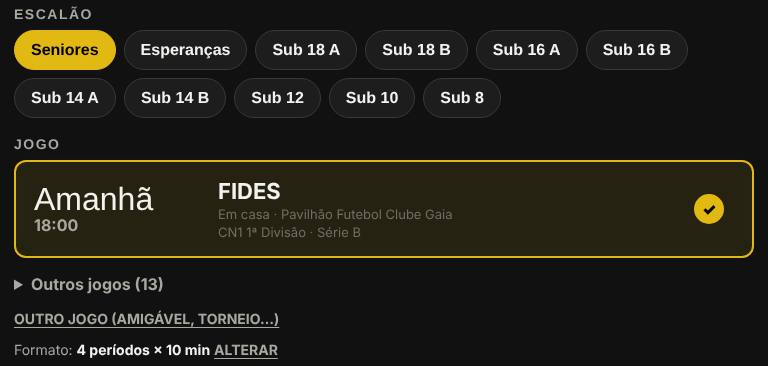
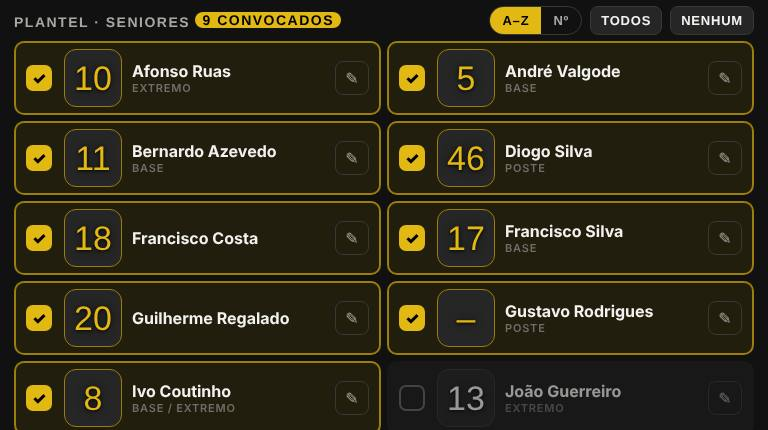
Ajuda: passo do envio das estatísticas e fluxo Plantel → Novo jogo
Claude-Session: https://claude.ai/code/session_011MJLTkQqLgfMWcZVacVG5X

diff --git a/index.html b/index.html
@@ -806,6 +806,7 @@ body.fit .b2 .sc .s{font-size:60px}body.fit .b2 .clock .t{font-size:52px!importa
 :root[data-theme=light] .hic{background:#f3f0e0;color:var(--gold-ink)}:root[data-theme=light] .hgo,:root[data-theme=light] .hopen .htx small{color:var(--gold-ink)}:root[data-theme=light] .hopen{background:#fff6cf}
 
 /* ===== v20: avisos de envio ===== */
+.hb-ico{display:grid;place-items:center;font-size:44px;color:var(--gold);background:var(--panel2);border-radius:10px;min-height:90px}
 #toast.tk-ok{border-color:var(--ok)}#toast.tk-warn,#toast.tk-ok{max-width:min(560px,92vw);width:max-content;border-radius:14px;text-align:center;line-height:1.35}#toast.tk-warn{border-color:var(--gold)}#toast.tk-ok{color:#fff}#toast.tk-busy{border-color:var(--line)}
 #toast.tk-busy::before{content:"";display:inline-block;width:12px;height:12px;margin-right:10px;border:2px solid currentColor;border-right-color:transparent;border-radius:50%;vertical-align:-1px;animation:tkspin .8s linear infinite}
 @keyframes tkspin{to{transform:rotate(360deg)}}@media (prefers-reduced-motion:reduce){#toast.tk-busy::before{animation:none}}
@@ -819,7 +820,7 @@ body.fit .b2 .sc .s{font-size:60px}body.fit .b2 .clock .t{font-size:52px!importa
 <script src="xlsx.full.min.js"></script>
 <script>
[1 lines of base64/hex data omitted]
-const VER="17/10 15:32";
+const VER="17/10 15:34";
 let DATA=null;
 const TEAMS=[["Seniores Masc","Seniores"],["Esperanças","Esperanças"],["Masters","Masters"],["Sub-18 Masc A","Sub 18 A"],["Sub-18 Masc B","Sub 18 B"],["Sub-16 Masc A","Sub 16 A"],["Sub-16 Masc B","Sub 16 B"],["Sub-14 Masc A","Sub 14 A"],["Sub-14 Masc B","Sub 14 B"],["Sub-12","Sub 12"],["Sub-10","Sub 10"],["Sub-8","Sub 8"]];
 const TN=Object.fromEntries(TEAMS);
@@ -1140,17 +1141,18 @@ function goLogin(){const go=async()=>{if(G){if(G.running)G.running=false;store()
   if(G&&G.status!=="fim")confirmBox("Gravar o jogo e ir para o início de sessão? Continuas o jogo em Jogos depois de entrares.",go);
   else go()}
 /* guia rápido */
-const HELP=[["Escolhe o jogo","Em Novo jogo, o escalão e o jogo de hoje (ou o próximo) já vêm escolhidos. Se for outro, abre “Outros jogos” ou “Outro jogo”.","1"],
- ["Convoca os atletas","Toca nos atletas que vão a jogo. Confirma os números e carrega em Começar jogo.","2"],
+const HELP=[["Convoca no Plantel","No separador Plantel marca quem vai a jogo e carrega em “Convocar → escolher jogo”. O ✎ corrige nome e número; “+ Adicionar jogador” junta quem não está no plantel. A convocatória fica guardada para o jogo seguinte.","1"],
+ ["Escolhe o jogo","Em Novo jogo, o jogo de hoje (ou o próximo) já vem escolhido e os convocados também. Se for outro, abre “Escolher jogo de outra data…” ou “Outro jogo”. Carrega em Começar jogo.","2"],
  ["Escolhe o cinco inicial","Toca em 5 atletas do banco (ou arrasta-os para Em campo). O relógio só arranca com cinco em campo.","3"],
  ["Regista as jogadas","Toca no atleta e depois na ação dos lados do campo. Para um lançamento, toca no sítio do campo e escolhe Convertido ou Falhado. Depois de um cesto aparece “Assistência?” com os números dos colegas. Faltas: Pessoal e Recebida em destaque; Disruptiva, Flagrante e Técnica por baixo. Técnicas ao treinador ou ao banco: botão “Técnica banco”. Errado? ↶ Anular, em baixo.","4"],
  ["Adversário","Usa +1, +2, +3 e Falta no marcador, ou escolhe o adversário por cima do campo para marcar lançamentos e ações dele (o campo fica azul).","5"],
  ["Substitui a arrastar","Arrasta um atleta do banco para cima de quem sai. Se alguém for excluído, o relógio pára e a app pede logo quem entra.","6"],
  ["Relógio e períodos","▶ Iniciar e Parar ao lado do tempo. Toca no tempo para o corrigir. Período › mostra todos os períodos, com o seguinte em destaque.","7"],
- ["Termina e grava","Terminar jogo → Gravar abre a revisão: confirma os números com a ficha oficial, corrige o que for preciso e carrega em Gravar jogo. Jogadas erradas editam-se ou apagam-se no separador Jogadas. Para parar e continuar mais tarde, Gravar e sair. Os números ficam em Jogos e em Época · acumulado, com Excel.","8"]];
+ ["Termina e grava","Terminar jogo → Gravar abre a revisão: confirma os números com a ficha oficial, corrige o que for preciso e carrega em Gravar jogo. Jogadas erradas editam-se ou apagam-se no separador Jogadas. Para parar e continuar mais tarde, Gravar e sair: o jogo fica no Início com “Continuar”. Os números ficam em Estatísticas, com Excel.","8"],
+ ["Envio das estatísticas","Ao gravar, se houver internet aparece “A enviar estatísticas…” e depois “✓ Estatísticas enviadas”: ficam disponíveis para toda a equipa técnica do escalão. Sem internet, o jogo fica gravado no tablet e aparece “⚠ 1 jogo por enviar” no topo; basta abrir a app com Wi-Fi ou dados e segue sozinho (“✓ jogo enviado”). A app funciona sem internet no pavilhão, desde que tenha sido aberta antes com ligação. Se aparecer “⚠ Só neste tablet”, pede acesso ao administrador.",""]];
 function helpBox(){const m=document.createElement("div");m.className="modal help";
   m.innerHTML=`<div class="card hb"><div class="hb-h"><h3>Guia rápido</h3><button class="btn sm" id="hb-x">Fechar</button></div>
-   <ol class="hb-l">${HELP.map(([t,d,i])=>`<li><img src="ajuda/${i}.jpg" alt="" loading="lazy" onerror="this.remove()"><div><b>${esc(t)}</b><p>${esc(d)}</p></div></li>`).join("")}</ol>
+   <ol class="hb-l">${HELP.map(([t,d,i])=>`<li>${i?`<img src="ajuda/${i}.jpg" alt="" loading="lazy" onerror="this.remove()">`:`<span class="hb-ico">☁</span>`}<div><b>${esc(t)}</b><p>${esc(d)}</p></div></li>`).join("")}</ol>
    ${installHint()?`<div class="hb-i"><b>Instalar no tablet</b><p>${installHint()}</p></div>`:""}</div>`;
   document.body.appendChild(m);m.querySelector("#hb-x").onclick=()=>m.remove();m.onclick=e=>{if(e.target===m)m.remove()}}
 /* instalar como app */

diff --git a/fonte/stats_src.html b/fonte/stats_src.html
@@ -805,6 +805,7 @@ body.fit .b2 .sc .s{font-size:60px}body.fit .b2 .clock .t{font-size:52px!importa
 :root[data-theme=light] .hic{background:#f3f0e0;color:var(--gold-ink)}:root[data-theme=light] .hgo,:root[data-theme=light] .hopen .htx small{color:var(--gold-ink)}:root[data-theme=light] .hopen{background:#fff6cf}
 
 /* ===== v20: avisos de envio ===== */
+.hb-ico{display:grid;place-items:center;font-size:44px;color:var(--gold);background:var(--panel2);border-radius:10px;min-height:90px}
 #toast.tk-ok{border-color:var(--ok)}#toast.tk-warn,#toast.tk-ok{max-width:min(560px,92vw);width:max-content;border-radius:14px;text-align:center;line-height:1.35}#toast.tk-warn{border-color:var(--gold)}#toast.tk-ok{color:#fff}#toast.tk-busy{border-color:var(--line)}
 #toast.tk-busy::before{content:"";display:inline-block;width:12px;height:12px;margin-right:10px;border:2px solid currentColor;border-right-color:transparent;border-radius:50%;vertical-align:-1px;animation:tkspin .8s linear infinite}
 @keyframes tkspin{to{transform:rotate(360deg)}}@media (prefers-reduced-motion:reduce){#toast.tk-busy::before{animation:none}}
@@ -1139,17 +1140,18 @@ function goLogin(){const go=async()=>{if(G){if(G.running)G.running=false;store()
   if(G&&G.status!=="fim")confirmBox("Gravar o jogo e ir para o início de sessão? Continuas o jogo em Jogos depois de entrares.",go);
   else go()}
 /* guia rápido */
-const HELP=[["Escolhe o jogo","Em Novo jogo, o escalão e o jogo de hoje (ou o próximo) já vêm escolhidos. Se for outro, abre “Outros jogos” ou “Outro jogo”.","1"],
- ["Convoca os atletas","Toca nos atletas que vão a jogo. Confirma os números e carrega em Começar jogo.","2"],
+const HELP=[["Convoca no Plantel","No separador Plantel marca quem vai a jogo e carrega em “Convocar → escolher jogo”. O ✎ corrige nome e número; “+ Adicionar jogador” junta quem não está no plantel. A convocatória fica guardada para o jogo seguinte.","1"],
+ ["Escolhe o jogo","Em Novo jogo, o jogo de hoje (ou o próximo) já vem escolhido e os convocados também. Se for outro, abre “Escolher jogo de outra data…” ou “Outro jogo”. Carrega em Começar jogo.","2"],
  ["Escolhe o cinco inicial","Toca em 5 atletas do banco (ou arrasta-os para Em campo). O relógio só arranca com cinco em campo.","3"],
  ["Regista as jogadas","Toca no atleta e depois na ação dos lados do campo. Para um lançamento, toca no sítio do campo e escolhe Convertido ou Falhado. Depois de um cesto aparece “Assistência?” com os números dos colegas. Faltas: Pessoal e Recebida em destaque; Disruptiva, Flagrante e Técnica por baixo. Técnicas ao treinador ou ao banco: botão “Técnica banco”. Errado? ↶ Anular, em baixo.","4"],
  ["Adversário","Usa +1, +2, +3 e Falta no marcador, ou escolhe o adversário por cima do campo para marcar lançamentos e ações dele (o campo fica azul).","5"],
  ["Substitui a arrastar","Arrasta um atleta do banco para cima de quem sai. Se alguém for excluído, o relógio pára e a app pede logo quem entra.","6"],
  ["Relógio e períodos","▶ Iniciar e Parar ao lado do tempo. Toca no tempo para o corrigir. Período › mostra todos os períodos, com o seguinte em destaque.","7"],
- ["Termina e grava","Terminar jogo → Gravar abre a revisão: confirma os números com a ficha oficial, corrige o que for preciso e carrega em Gravar jogo. Jogadas erradas editam-se ou apagam-se no separador Jogadas. Para parar e continuar mais tarde, Gravar e sair. Os números ficam em Jogos e em Época · acumulado, com Excel.","8"]];
+ ["Termina e grava","Terminar jogo → Gravar abre a revisão: confirma os números com a ficha oficial, corrige o que for preciso e carrega em Gravar jogo. Jogadas erradas editam-se ou apagam-se no separador Jogadas. Para parar e continuar mais tarde, Gravar e sair: o jogo fica no Início com “Continuar”. Os números ficam em Estatísticas, com Excel.","8"],
+ ["Envio das estatísticas","Ao gravar, se houver internet aparece “A enviar estatísticas…” e depois “✓ Estatísticas enviadas”: ficam disponíveis para toda a equipa técnica do escalão. Sem internet, o jogo fica gravado no tablet e aparece “⚠ 1 jogo por enviar” no topo; basta abrir a app com Wi-Fi ou dados e segue sozinho (“✓ jogo enviado”). A app funciona sem internet no pavilhão, desde que tenha sido aberta antes com ligação. Se aparecer “⚠ Só neste tablet”, pede acesso ao administrador.",""]];
 function helpBox(){const m=document.createElement("div");m.className="modal help";
   m.innerHTML=`<div class="card hb"><div class="hb-h"><h3>Guia rápido</h3><button class="btn sm" id="hb-x">Fechar</button></div>
-   <ol class="hb-l">${HELP.map(([t,d,i])=>`<li><img src="ajuda/${i}.jpg" alt="" loading="lazy" onerror="this.remove()"><div><b>${esc(t)}</b><p>${esc(d)}</p></div></li>`).join("")}</ol>
+   <ol class="hb-l">${HELP.map(([t,d,i])=>`<li>${i?`<img src="ajuda/${i}.jpg" alt="" loading="lazy" onerror="this.remove()">`:`<span class="hb-ico">☁</span>`}<div><b>${esc(t)}</b><p>${esc(d)}</p></div></li>`).join("")}</ol>
    ${installHint()?`<div class="hb-i"><b>Instalar no tablet</b><p>${installHint()}</p></div>`:""}</div>`;
   document.body.appendChild(m);m.querySelector("#hb-x").onclick=()=>m.remove();m.onclick=e=>{if(e.target===m)m.remove()}}
 /* instalar como app */

diff --git a/sw.js b/sw.js
@@ -1,5 +1,5 @@
 // Funcionamento offline da página de estatísticas
-const CACHE = "fcgaia-estatisticas-v16";
+const CACHE = "fcgaia-estatisticas-v17";
 const CORE = ["./", "./index.html", "./xlsx.full.min.js", "./manifest.webmanifest", "./icon-192.png", "./icon-512.png", "./utilizadores.json", "./ajuda/1.jpg", "./ajuda/2.jpg", "./ajuda/3.jpg", "./ajuda/4.jpg", "./ajuda/5.jpg", "./ajuda/6.jpg", "./ajuda/7.jpg", "./ajuda/8.jpg", "https://andreferraz12.github.io/Fcgaiacalendario/data/jogos.json"];
 self.addEventListener("install", e => {
   e.waitUntil(caches.open(CACHE).then(c => Promise.all(CORE.map(u => c.add(u).catch(() => null)))).then(() => self.skipWaiting()));
